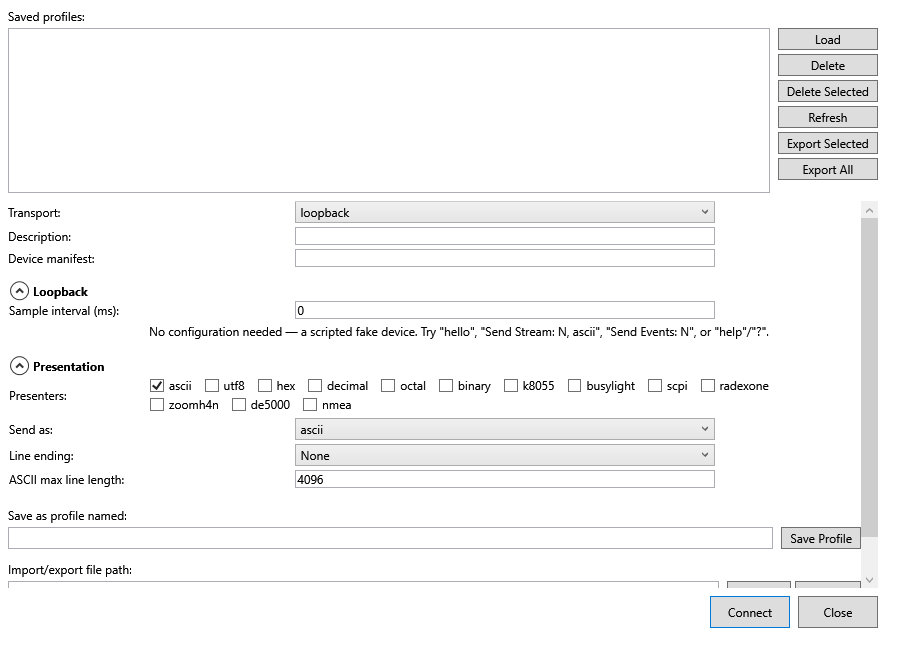
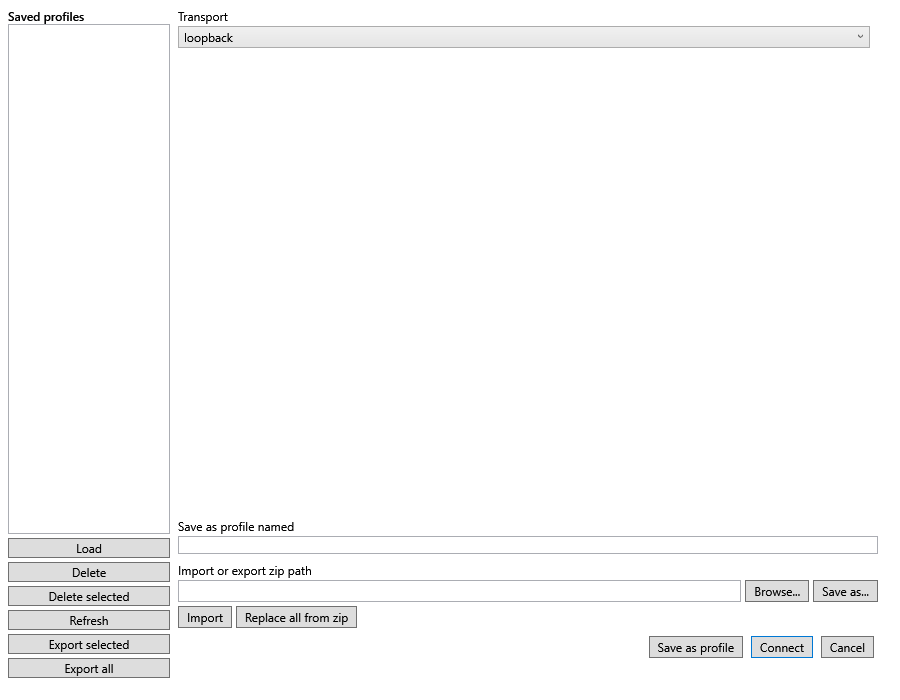
Migrate WPF screenshot capture through GuideImage and capture the connection editor

diff --git a/src/Applications/OoBDev.DevTerm.Wpf.Tests/ConnectionEditorScreenshotTests.cs b/src/Applications/OoBDev.DevTerm.Wpf.Tests/ConnectionEditorScreenshotTests.cs
@@ -1,0 +1,83 @@
+using System;
+using System.IO;
+using System.Threading;
+using System.Windows.Threading;
+using DevTermApp;
+using Microsoft.VisualStudio.TestTools.UnitTesting;
+using OoBDev.DevTerm.Configuration;
+
+namespace OoBDev.DevTerm.Wpf.Tests;
+
+/// <summary>Captures the connection editor window for the user guide.</summary>
+[DoNotParallelize]
+[TestCategory("DevLocal")]
+[TestClass]
+public sealed class ConnectionEditorScreenshotTests
+{
+    private string _dir = string.Empty;
+
+    [TestInitialize]
+    public void Setup() => _dir = Directory.CreateDirectory(Path.Combine(Path.GetTempPath(), $"Test_{Guid.NewGuid():N}")).FullName;
+
+    [TestCleanup]
+    public void Cleanup() => Directory.Delete(_dir, recursive: true);
+
+    [DataTestMethod]
+    [DataRow("tcp", "wpf-device-profiles-tcp.png")]
+    [DataRow("serial", "wpf-device-profiles-serial.png")]
+    [DataRow("loopback", "wpf-device-profiles-loopback.png")]
+    public void Window_Transport_IsCaptured(string transport, string imageName)
+    {
+        // Stage
+        var path = Path.Combine(RepoRoot(), "docs", "applications", "devterm", "user-guide", "images", imageName);
+
+        // Test
+        RunOnSta(() =>
+        {
+            using var editor = new ConnectionEditorViewModel(new ConnectionProfileStore(_dir), new CliOptions { Transport = transport });
+            var window = new ConnectionEditorWindow(editor, scans: new ConnectionDeviceScans(editor));
+            WpfScreenshot.ShowOffScreen(window, 900, 700);
+            Dispatcher.CurrentDispatcher.Invoke(() => { }, DispatcherPriority.Background);
+            window.UpdateLayout();
+            WpfScreenshot.Save(window, path);
+            window.Close();
+        });
+
+        // Assert
+        Assert.IsTrue(File.Exists(path));
+    }
+
+    private static string RepoRoot()
+    {
+        var dir = new DirectoryInfo(AppContext.BaseDirectory);
+        while (dir is not null && !File.Exists(Path.Combine(dir.FullName, "GitVersion.yml")))
+        {
+            dir = dir.Parent;
+        }
+
+        return dir?.FullName ?? throw new InvalidOperationException("repo root not found");
+    }
+
+    private static void RunOnSta(Action action)
+    {
+        Exception? failure = null;
+        var thread = new Thread(() =>
+        {
+            try
+            {
+                action();
+            }
+            catch (Exception ex)
+            {
+                failure = ex;
+            }
+        });
+        thread.SetApartmentState(ApartmentState.STA);
+        thread.Start();
+        thread.Join();
+        if (failure is not null)
+        {
+            throw new AssertFailedException(failure.Message, failure);
+        }
+    }
+}

diff --git a/src/Applications/OoBDev.DevTerm.Wpf.Tests/WpfScreenshot.cs b/src/Applications/OoBDev.DevTerm.Wpf.Tests/WpfScreenshot.cs
@@ -1,0 +1,40 @@
+using System;
+using System.IO;
+using System.Windows;
+using System.Windows.Media;
+using System.Windows.Media.Imaging;
+using OoBDev.DevTerm.TestUtilities;
+
+namespace OoBDev.DevTerm.Wpf.Tests;
+
+/// <summary>Renders a laid-out WPF <see cref="Window"/> to a guide PNG through <see cref="GuideImage"/>, so the committed image changes only when the masked capture differs.</summary>
+internal static class WpfScreenshot
+{
+    /// <summary>Shows <paramref name="window"/> far off-screen: a window that was never shown has no compositor target and renders blank.</summary>
+    public static void ShowOffScreen(Window window, double width = 900, double height = 650)
+    {
+        window.Width = width;
+        window.Height = height;
+        window.WindowStyle = WindowStyle.None;
+        window.ShowInTaskbar = false;
+        window.Left = -10000;
+        window.Top = -10000;
+        window.Show();
+        window.UpdateLayout();
+    }
+
+    /// <summary>Renders <paramref name="window"/> and syncs it over <paramref name="path"/>; returns true when the committed image was replaced.</summary>
+    public static bool Save(Window window, string path) => GuideImage.Write(path, temp => Render(window, temp));
+
+    private static void Render(Window window, string path)
+    {
+        var width = (int)Math.Max(1, window.ActualWidth);
+        var height = (int)Math.Max(1, window.ActualHeight);
+        var bitmap = new RenderTargetBitmap(width, height, 96, 96, PixelFormats.Pbgra32);
+        bitmap.Render(window);
+        var encoder = new PngBitmapEncoder();
+        encoder.Frames.Add(BitmapFrame.Create(bitmap));
+        using var stream = File.Create(path);
+        encoder.Save(stream);
+    }
+}

diff --git a/BACKLOG.md b/BACKLOG.md
@@ -12,14 +12,14 @@ GitHub is no longer the primary repository (local bare repo `origin`), so nothin
 
 Owner: all protocols and features of dev-term must exist here. Done means what dev-term has today; its own future plans are in section 8. Status, slices and leftovers: [status.md](docs/design/DevTermParity/status.md); matrix: [README](docs/design/DevTermParity/README.md); restructure steps 0 to 6 are done.
 
-- [ ] None of the WPF windows were viewed running: migrate `WpfScreenshot` and its layout review tests, then capture every window ([status.md](docs/design/DevTermParity/status.md)).
+- [ ] None of the WPF windows were viewed running: capture the remaining windows with `WpfScreenshot` (done: connection editor) and migrate the layout review tests ([status.md](docs/design/DevTermParity/status.md)).
 - [ ] **DevTerm docs into living documents** (owner, 2026-10-30): fold the imported design, spec and device folders in `docs/applications/devterm/` into the living documents feature by feature, move reusable designs (transports, presenters, UI definitions, manifests, session logging) to `docs/design/<Feature>/`, then delete each folder per [the map](docs/migration/devterm-docs-map.md); point the generated Tui guide output at `docs/applications/devterm/user-guide`.
 - [ ] Port dev-term's coding-standards tests (device docs, one test category per test; snapshots in `docs/applications/devterm/source/`) and wire its containers (`containers/devterm`: mosquitto, ser2net, loopback-device, rabbitmq TLS and STOMP) into `containers/testing` with the `add-integration-service` skill.
 - [ ] **Surroundings review of the other migrated projects** (owner, 2026-10-30; dev-term is done, see [the review](docs/migration/devterm-surroundings-review-2026-10-30.md)): repeat for BinaryDataDecoders and each harvest project: guide, `.claude` configuration, docs, open questions, TODO and BACKLOG, UIs, tests, scripts and plans, each migrated or rejected with a reason; application docs go to `docs/applications/{app-name}/`.
 - [ ] Bench hardware ([list](docs/how-tos/test-hardware.md)): write Hardware tests for the Korad KA3005P/KA6003P (settings exist in `src/.runsettings`); move the Tui DevLocal tests off dev-term's `RealTcpDevice*` names. The identify tests for the HP 34401A, TDS2024 and both 2230s exist (`BenchInstrumentTests`; the second 2230 is offline).
 - [ ] **Generated guides** (owner, 2026-10-30): [design](docs/design/GeneratedGuides/README.md); journey-driven user guides and screenshots for Tui, WPF and Web written straight into `docs/applications/{app}/user-guide`, API guides from OpenAPI, AsyncAPI and ksy files by MSTest scripts, JavaScript projects as `.esproj` with `npm test`.
 - Find why a full Tui Unit run rewrites `tui-manifest-editor*`, `tui-plugin-approval*` images and their `.txt` captures even through `image-mask sync` (nondeterministic content or a missing zone); then add zones.
-- Migrate the WPF screenshot capture (`WpfScreenshot`, dev-term) and route it through `GuideImage`; Tui and Web are routed; see [GeneratedGuides](docs/design/GeneratedGuides/README.md).
+- Capture the remaining WPF windows through `WpfScreenshot`/`GuideImage` (connection editor done); Tui and Web are routed; see [GeneratedGuides](docs/design/GeneratedGuides/README.md).
 - Generated user guides for the `src/Tools` command-line tools (journeys, captured output, screenshots where there is a UI); later, after the application guides; see [GeneratedGuides](docs/design/GeneratedGuides/README.md).
 - [ ] Docs check for imported material: every file under `docs/applications/{app}/` is linked from its README or listed in the transient map in `docs/migration/` (extend `OoBDev.Docs.Tests`; widen its default scope to `docs/applications`).
 - [ ] Move `FakeDeviceConfigEditor`, `FakeTransport` and `ManualTimeProvider` into `OoBDev.DevTerm.TestUtilities` ([plan](docs/design/DevTermParity/test-utilities-plan.md)); each needs Core references.

diff --git a/docs/changes/README.md b/docs/changes/README.md
@@ -560,4 +560,5 @@ Each change document should include:
 - [WPF connection editor device pickers (2026-10-30)](devterm-wpf-device-pickers-2026-10-30.md) - per-transport fields, detected ports, LAN, HID, USBTMC and BLE pickers with scan commands
 - [Demo device plugin and Web flows (2026-10-30)](devterm-demo-plugin-web-flows-2026-10-30.md) - `OoBDev.DevTerm.Devices.Demo` migrated; the Web panel flow passes again
 - [Guide screenshots through image-mask sync (2026-10-30)](devterm-guide-images-image-mask-2026-10-30.md) - Tui and Web guide captures only replace committed images when they differ once masked
+- [WPF screenshot capture (2026-10-30)](devterm-wpf-screenshot-capture-2026-10-30.md) - `WpfScreenshot` through `GuideImage`; connection editor captured
 - [WPF field-following previews (2026-10-30)](devterm-wpf-field-following-previews-2026-10-30.md) - a button tooltip's Sends line recomputes as its parameter fields change

diff --git a/docs/changes/devterm-wpf-screenshot-capture-2026-10-30.md b/docs/changes/devterm-wpf-screenshot-capture-2026-10-30.md
@@ -1,0 +1,12 @@
+# WPF screenshot capture (2026-10-30)
+
+## What changed
+
+- `WpfScreenshot` (Wpf.Tests) shows a window far off-screen and renders it with `RenderTargetBitmap`, writing through `GuideImage`, so a committed guide image is replaced only when the masked capture differs.
+- `ConnectionEditorScreenshotTests` (DevLocal) captures the connection editor for tcp, serial and loopback into `docs/applications/devterm/user-guide/images/wpf-device-profiles-*.png`; a second run leaves the images byte-identical.
+- `OoBDev.DevTerm.Wpf.Tests` references `OoBDev.DevTerm.TestUtilities`.
+
+## Not done
+
+- The other windows (main shell, playback, converter tools, control panels, manifest editor, themes, routing, stream monitor) are not captured yet, nor dev-term's layout review tests.
+- The test profile folder still comes from `Path.GetTempPath()` (`ITempFileFactory` makes files, not folders).

diff --git a/TODO.md b/TODO.md
@@ -8,7 +8,7 @@ Keep this file short (about 15 one-line items). When an item starts, move it her
 
 ## In progress
 
-- [ ] **DevTerm parity, WPF shell**: all five slices are built; left is viewing the windows running (migrate `WpfScreenshot` and the layout review); detail in [status.md](docs/design/DevTermParity/status.md).
+- [ ] **DevTerm parity, WPF shell**: all five slices are built; left is viewing the windows running (`WpfScreenshot` is migrated and the connection editor captured; the other windows and the layout review are left); detail in [status.md](docs/design/DevTermParity/status.md).
 
 ## Next
 
